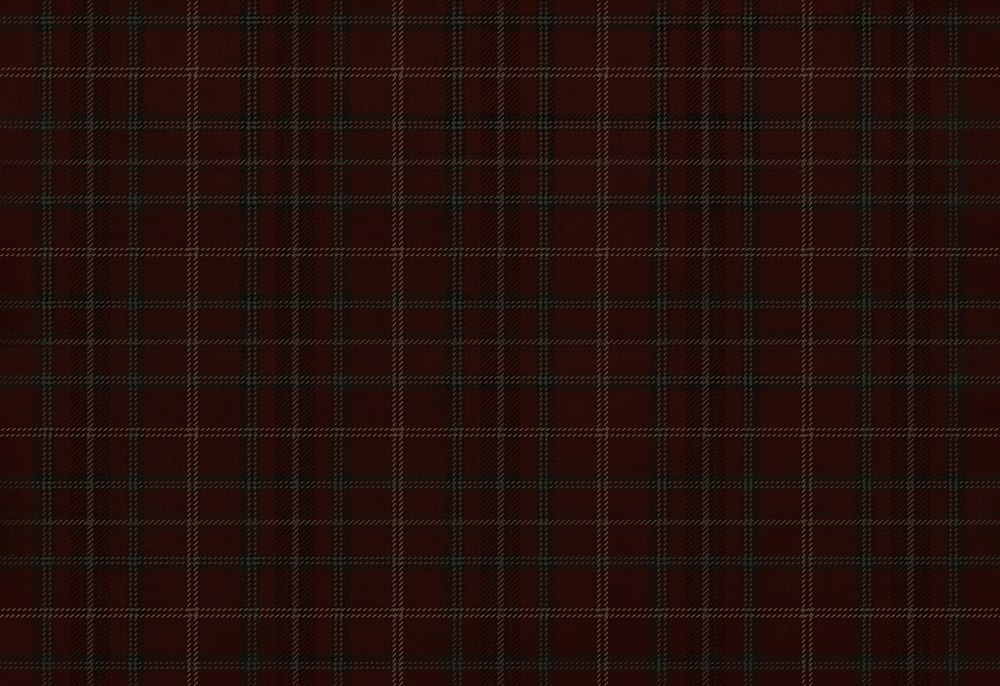
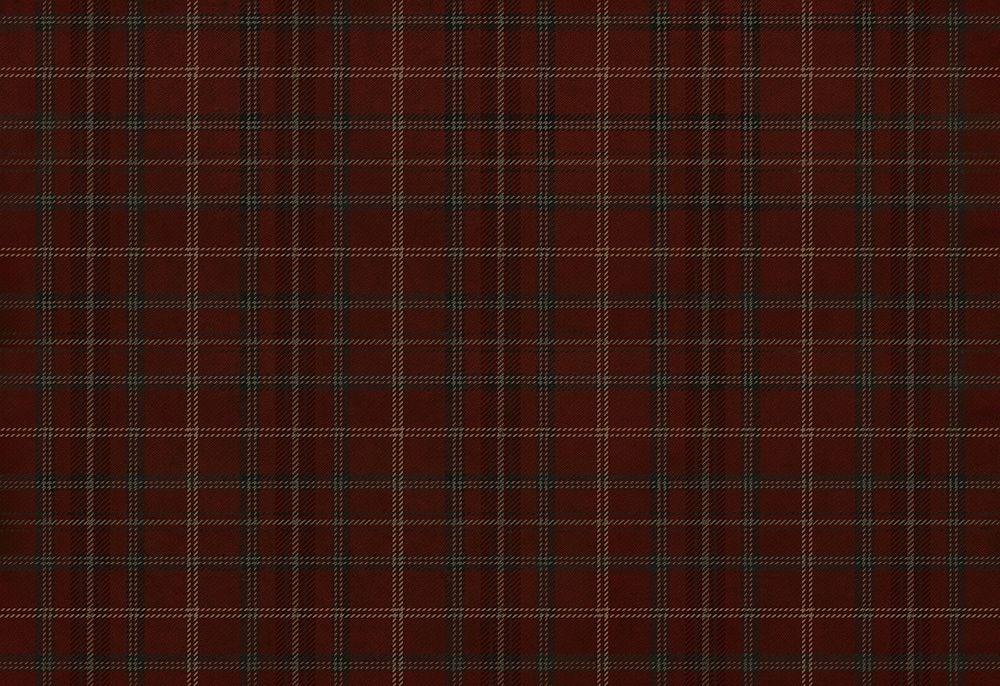
lighten image

diff --git a/style.css b/style.css
@@ -41,7 +41,7 @@ h1 {
     width: 1090px; 
     height: auto; /* Adjust height dynamically */
     max-width: 800px;
-    background: url('https://github.com/rem357/idm231-rem357/blob/main/other/Rug%2052433.jpg?raw=true') no-repeat center center;
+    background: url('https://github.com/rem357/idm231-rem357/blob/main/other/Rug%2052433%201.png?raw=true') no-repeat center center;
     background-size: cover;
     padding: 20px;
     border-radius: 2px;
